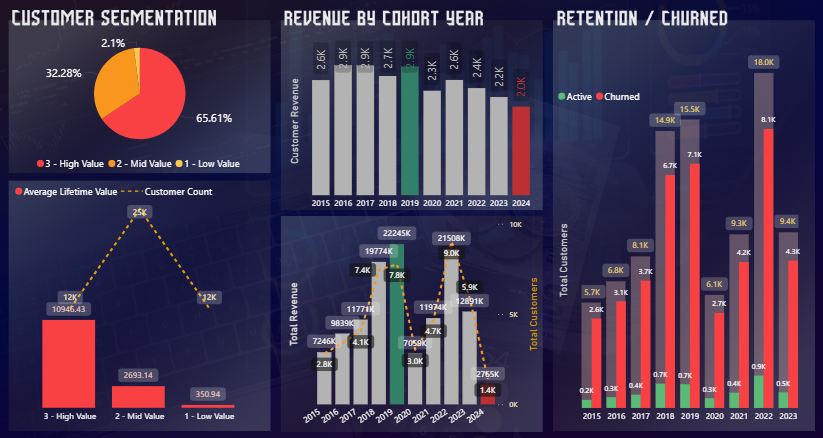
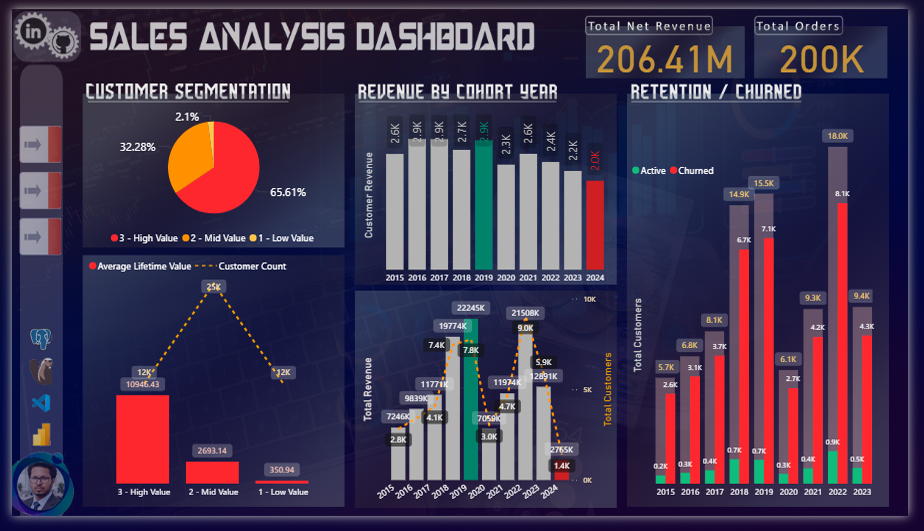
update readme with PBI link and dashboard image

diff --git a/README.md b/README.md
@@ -9,7 +9,7 @@ by Luke Barousse & Kelly Adams
   <img src="cover_image.png" alt="Customer Segmentation" width="100%">
 </p>
 
-
+[📊 Interact with my Power BI Dashboard](https://app.powerbi.com/view?r=eyJrIjoiY2NlYzNjN2MtZGQ2YS00NDE2LWFhNGYtODEzYmQzY2Y5ZDBkIiwidCI6ImM0ZGRhYWFjLTQ4OWItNGQ1Zi1hMzVjLWFhODVlNmVkZjhkOCJ9&pageName=fa9447fa4c012e457c1d)
 ---
 ## Overview
 Analysis of customer behavior, retention, and lifetime value for an e-commerce company to improve customer retention and maximize revenue.
@@ -25,12 +25,12 @@ SQL_Projects_Sales_Analysis_of_e-Commerce_Company
 │   └── contoso_100k.sql        # Schema + table creation
 │
 ├── visuals/
-│   ├── Cohort_Analysis.pbix           # Final Power BI report
-│   └── visuals_screenshots           # PNG exports of dashboards
+│   ├── Cohort_Analysis.pbix    # Final Power BI report
+│   └── visuals_screenshots     # PNG exports of dashboards
 │
 ├── cover_image.png
 ├── LICENSE.md
-├── README.md                          # Project documentation
+├── README.md                   # Project documentation
 └── .gitignore
 ```
 ---
@@ -41,9 +41,9 @@ SQL_Projects_Sales_Analysis_of_e-Commerce_Company
 ---
 ## 🛠 Tech Stack
 - *Database* - **PostgreSQL 17+** 
-- *Analysis Tools/ IDE* - **PGAdmin + DBeaver + VSCode**
+- *Analysis Tools/ IDE* - **DBeaver + VSCode**
 - *Visualization & Publish to web* - **Power BI Desktop & Power BI Services** 
-- *Version control & portfolio showcase* - **Git/ GitHub + LinkedIn** 
+- *Version control & portfolio showcase* - **Git + GitHub + LinkedIn** 
 ---
 ## Clean Up Data and Create a View
 
@@ -161,10 +161,6 @@ GROUP BY cohort_year
 - Cohorts were grouped by year of first purchase
 - Analyzed customer revenue at a cohort level
 
-**📈 Visualization:** 
-
-Customer Revenue by Cohort (Adjusted for time in market) - First Purchase Date 
-
 **📊 Key Findings:**  
 - Customer revenue is declining, older cohorts (2016-2018) spent ~$2,800+, while 2024 cohort spending dropped to ~$1,970.  
 - Revenue and customers peaked in 2022-2023, but both are now trending downward in 2024.  
@@ -252,7 +248,6 @@ GROUP BY cohort_year, customer_status
 📌 Data Science/ Data Analytics D-Technosavant
 📌 Machine Learning, Deep Learning, LLM/LMM, NLP, and Automated Data Pipelines Inquisitive
 ``` 
-
 [![LinkedIn](https://img.shields.io/badge/LinkedIn-%230077B5.svg?logo=linkedin&logoColor=white)](https://linkedin.com/in/thilina-perera-148aa934/)  [![TikTok](https://img.shields.io/badge/TikTok-%23000000.svg?logo=TikTok&logoColor=white)](https://tiktok.com/@data_with_tp) [![YouTube](https://img.shields.io/badge/YouTube-%23FF0000.svg?logo=YouTube&logoColor=white)](https://youtube.com/@Data_with_TP) [![email](https://img.shields.io/badge/Email-D14836?logo=gmail&logoColor=white)](mailto:kgttpereraqatar2022@gmail.com) 
 
 ## 🏆 License
